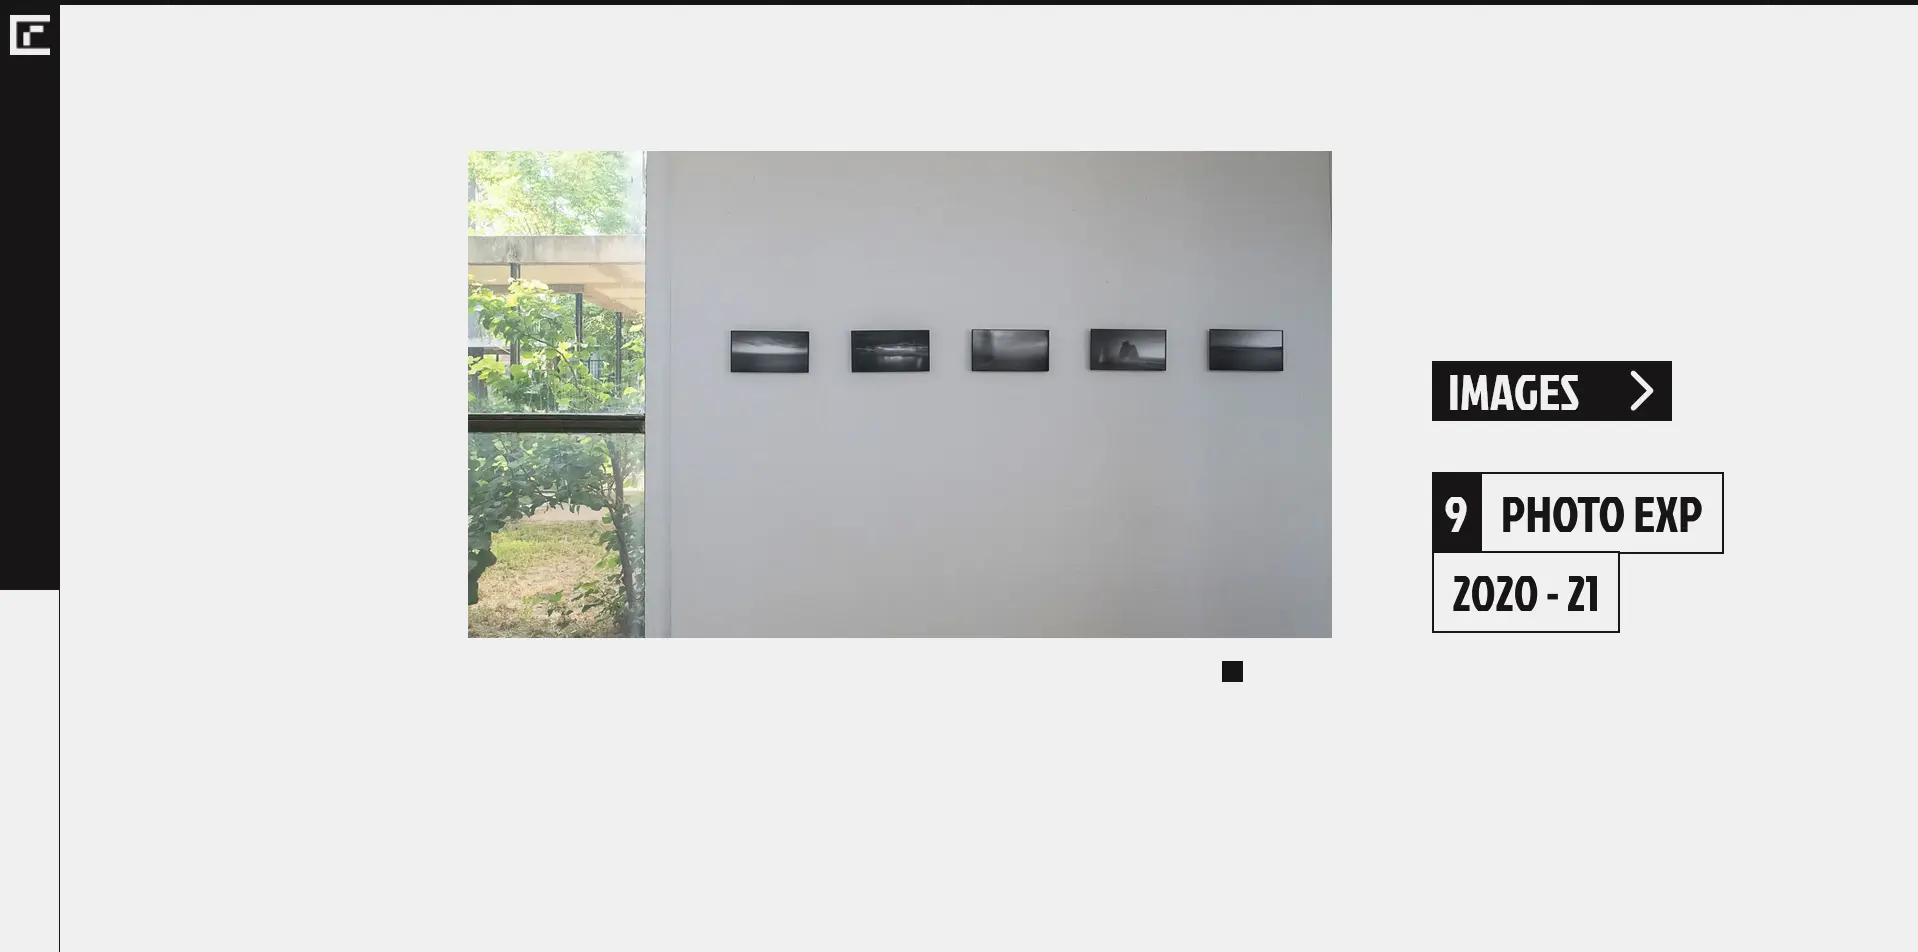
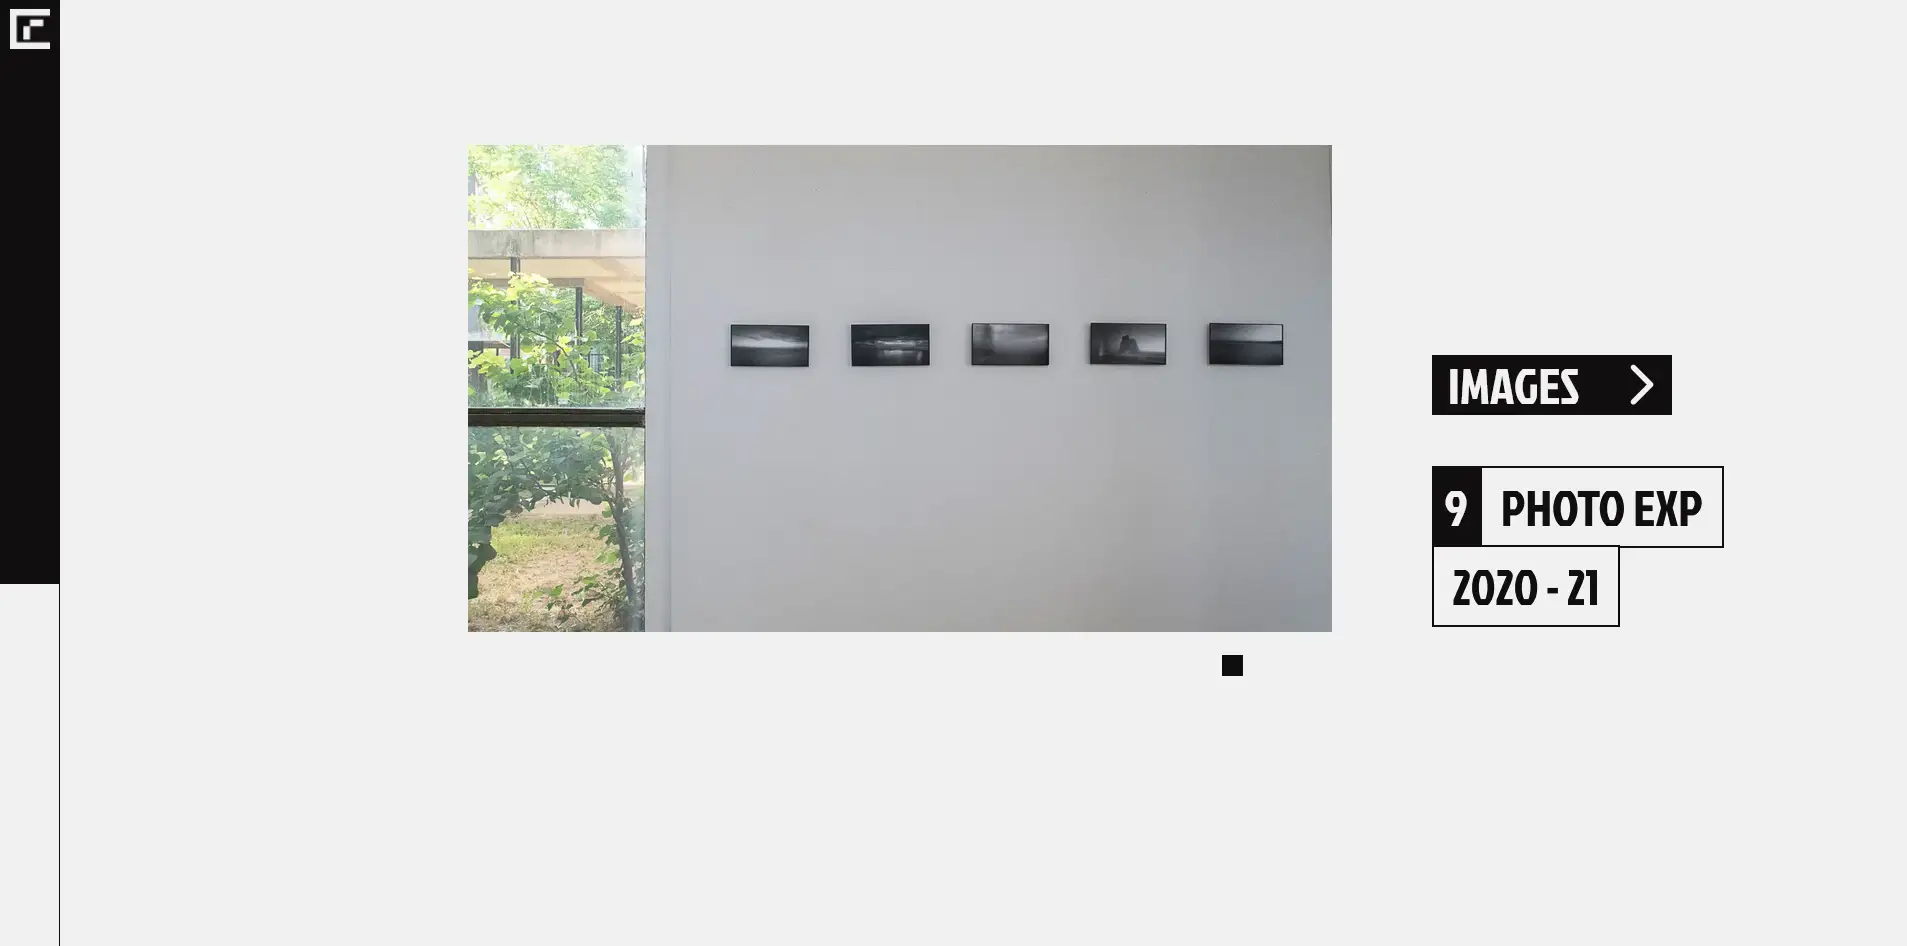
Done : Projects adjust

diff --git a/frontend/src/components/Projects/Projects.module.scss b/frontend/src/components/Projects/Projects.module.scss
@@ -13,26 +13,28 @@
         aspect-ratio: 2.29;
         position: relative;
         margin-top: -3.5%;
+        overflow: hidden;
         -webkit-backdrop-filter: blur(10px);
         backdrop-filter: blur(10px);
         background-color: rgb(230, 228, 228, 0.835); // rgb(230, 228, 228, 0.835)
     }
-    h2 {
-        font-family: "NeueMontreal-Medium";
-        text-transform: uppercase;
-        font-size: 30px;
-        font-weight: 200;
-        // border: 2px solid red;
-        text-align: center;
-        margin: 0;
-        margin-top: 25px;
-        color: #091429;
-    }
 
     &__box {
-        width: 100%;
+        width: 95%;
         height: 100%;
-
+        margin-inline: auto;
+        h2 {
+            font-family: "NeueMontreal-Medium";
+            text-transform: uppercase;
+            font-size: 25px;
+            font-weight: 200;
+            // border: 2px solid red;
+            text-align: center;
+            margin: 0;
+            margin-top: 30px;
+            mix-blend-mode: difference;
+            color: #dedfdf;
+        }
         &__content {
             // border: 2px solid blue;
             height: 80%;
@@ -45,6 +47,7 @@
                 left: 10%;
                 // border: 2px solid green;
                 width: 40%;
+
                 ul {
                     padding: 0;
                     margin: 0;
@@ -68,23 +71,26 @@
                     font-family: "NeueMontreal-Regular";
                     font-weight: 300;
                     font-size: 16px;
-                    color: #091429;
+                    color: #c7c4c4;
                     background-color: "transparent";
                     transition: 0.2s ease-in-out;
+                    mix-blend-mode: difference;
                 }
                 .liHover {
                     // font-size: 18px;
-                    // mix-blend-mode: difference;
+
                     // background-color: rgba(14, 13, 13, 0.946);
-                    color: rgb(157, 151, 148);
+                    color: rgb(46, 44, 44);
+                    mix-blend-mode: difference;
                     transition: 0.2s ease-in-out;
                 }
             }
             &__view {
-                width: 63%;
-                height: 75%;
+                width: 100%;
+                height: 110%;
+                top: -5%;
 
-                position: relative;
+                position: absolute;
                 // border: 2px solid purple;
                 &__ctn {
                     // border: 2px solid green;
@@ -115,19 +121,23 @@
                 }
             }
             &__text {
-                width: 35%;
+                width: 100%;
                 display: flex;
                 flex-direction: column;
                 // border: 2px solid green;
 
                 &__projects {
+                    display: flex;
+                    justify-content: flex-end;
                     ul {
+                        // border: 2px solid blue;
                         padding: 0;
                         margin: 0;
                         padding-top: 1rem;
-                        height: 120%;
-                        width: 88%;
-                        margin-top: 20%;
+
+                        width: 35%;
+                        margin-top: 5%;
+                        margin-right: 5%;
                     }
                     li {
                         box-sizing: border-box;
@@ -144,9 +154,10 @@
                         font-family: "NeueMontreal-Regular";
                         font-weight: 300;
                         font-size: 16px;
-                        color: #091429;
+                        color: #dedfdf;
                         background-color: "transparent";
                         transition: 0.2s ease-in-out;
+                        mix-blend-mode: difference;
                     }
                     &__project {
                         display: flex;
@@ -167,7 +178,8 @@
                         // font-size: 18px;
                         // mix-blend-mode: difference;
                         // background-color: rgba(14, 13, 13, 0.946);
-                        color: rgb(157, 151, 148);
+                        color: rgb(46, 44, 44);
+                        mix-blend-mode: difference;
                         transition: 0.2s ease-in-out;
                     }
                 }

diff --git a/frontend/src/components/Projects/Projects.jsx b/frontend/src/components/Projects/Projects.jsx
@@ -118,7 +118,7 @@ export default function Projects({
             alt: "Platform Game",
             text: "While learning OOP in JS, I created a little platform game. I learned a lot thanks to Frank Laboratory on youtube. ",
             techno: "Javascript POO, canvas html element",
-            client: "Personnal",
+            client: "Personnal Prototype",
             type: "game",
         },
         {
@@ -190,7 +190,7 @@ export default function Projects({
         const parentElement = currentElement.parentElement;
         const randomLarge = Math.floor(Math.random() * 45) + 5;
         const randomTop = Math.floor(Math.random() * 44);
-        const randomWidth = Math.floor(Math.random() * 10) + 45;
+        const randomWidth = Math.floor(Math.random() * 10) + 30;
         const height = randomWidth / 0.9;
         // const randomHeight = Math.floor(Math.random() * 15) + 35;
 
@@ -210,6 +210,7 @@ export default function Projects({
                     height: "0%",
                     width: `${randomWidth}%`,
                     opacity: 1,
+                    zIndex: -1,
                 });
                 gsap.to(currentElement, {
                     height: `${height}%`,
@@ -259,7 +260,7 @@ export default function Projects({
             <section className={s.projects}>
                 <div className={s.projects__box__wrapper} ref={projectsWrapperRef}>
                     <div className={s.projects__box} ref={projectsRef}>
-                        <h2>All projects</h2>
+                        <h2>Latest works</h2>
                         {/* <div className={s.projects__box__title}><h2>Projects</h2> </div> */}
 
                         <div className={s.projects__box__content}>

diff --git a/frontend/src/components/Navbar/Navbar.module.scss b/frontend/src/components/Navbar/Navbar.module.scss
@@ -1,9 +1,9 @@
 @import "../../assets/styles/theme.scss";
 .navbar {
-    z-index: 9000;
+    z-index: 5000;
     position: fixed;
 
-    top: 7%;
+    top: 10%;
 
     right: 7px;
     // border: 2px solid red;
@@ -42,7 +42,7 @@
         &__wrapper {
             // border: 2px solid rgb(43, 176, 48);
             overflow: hidden;
-            height: 16px;
+            height: 15px;
             display: flex;
             flex-direction: column;
             transform: rotate(-180deg);
@@ -65,7 +65,7 @@
             // clip-path: polygon(0 0, 100% 0, 100% 90%, 75% 100%, 0 100%);
 
             span {
-                line-height: 1.4;
+                line-height: 1.3;
                 height: 15px;
                 margin: 0;
             }

diff --git a/frontend/src/components/Projects/Project/Project.module.scss b/frontend/src/components/Projects/Project/Project.module.scss
@@ -120,13 +120,16 @@
                 // margin-top: 5%;
                 position: relative;
                 width: 100%;
-                aspect-ratio: 1.9;
-                object-fit: cover;
+                aspect-ratio: 2;
+
                 overflow: hidden;
                 // border: 2px solid red;
                 display: flex;
                 justify-content: space-between;
                 gap: 15px;
+                img {
+                    width: 100%;
+                }
 
                 &__alone {
                     margin-top: 5%;
@@ -277,7 +280,7 @@
 
     &__button {
         position: absolute;
-        bottom: 1.2vw;
+        bottom: 7%;
         right: 4.7vw;
         // border: 2px solid red;
         width: 15%;

diff --git a/frontend/src/components/Projects/Project/Project.jsx b/frontend/src/components/Projects/Project/Project.jsx
@@ -127,9 +127,9 @@ export default function Project({ item, closeProject, nextProject, index, curren
                                 {/* {item.github} || {item.askforsource} */}
                             </div>
                         </div>
-                        <div className={s.project__pic__title__ask}>
+                        {/* <div className={s.project__pic__title__ask}>
                             <p>Ask for source code</p>
-                        </div>
+                        </div> */}
                     </div>
                     <div className={s.project__close} onClick={() => closingGSAP()}>
                         <span>CLOSE</span>

diff --git a/frontend/src/components/Logo/Logo.module.scss b/frontend/src/components/Logo/Logo.module.scss
@@ -1,8 +1,8 @@
 .logo {
     cursor: pointer;
     position: fixed;
-    top: 2.5%;
-    left: 16px;
-    width: 25px;
+    top: 0.5%;
+    left: 5px;
+    width: 28px;
     z-index: 6000;
 }

diff --git a/frontend/src/components/PlayView/PlayView.module.scss b/frontend/src/components/PlayView/PlayView.module.scss
@@ -2,7 +2,7 @@
     z-index: 8000;
     display: flex;
     position: fixed;
-    top: 1rem;
+    top: 0.5%;
     right: 5rem;
     // mix-blend-mode: exclusion;
 

diff --git a/frontend/src/assets/styles/global.scss b/frontend/src/assets/styles/global.scss
@@ -12,7 +12,7 @@ body {
     position: fixed;
     top: 0;
     left: 0;
-    background-color: #c9eefc;
+    background-color: #c3e6f4;
     z-index: -2;
 }
 
